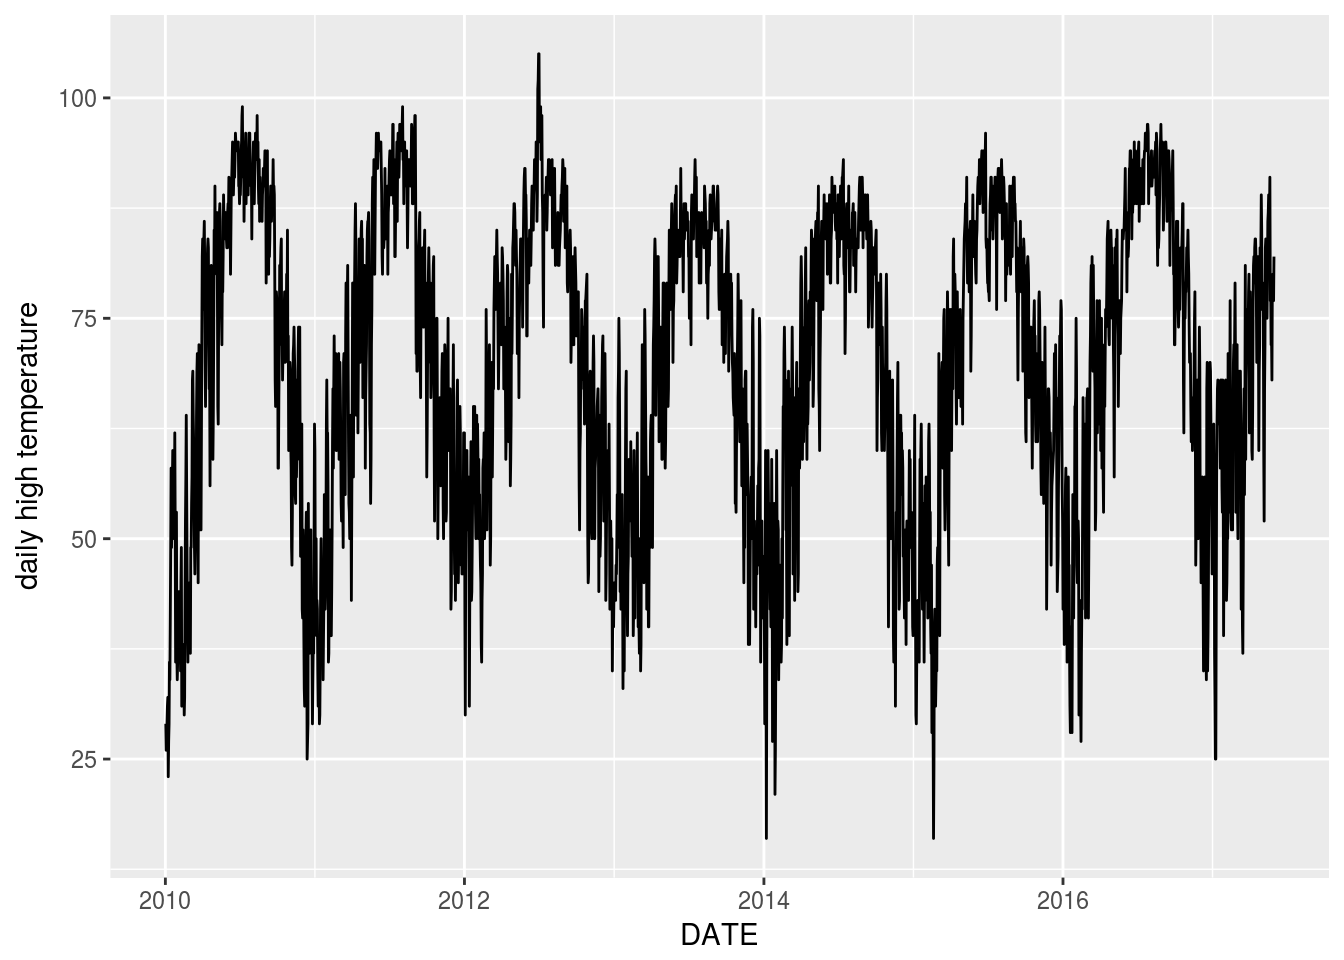
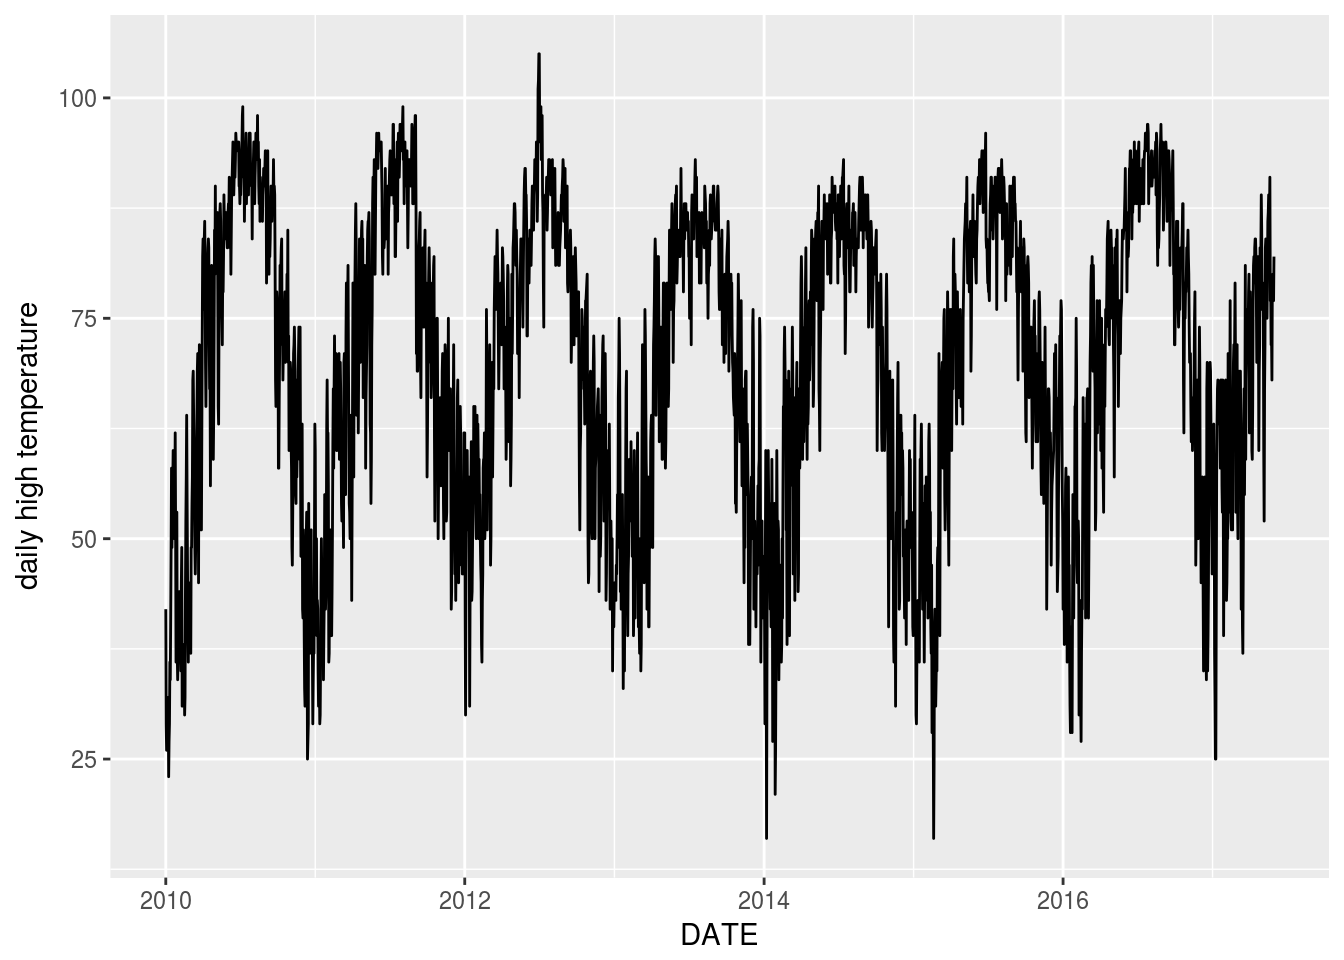
fixed typo

diff --git a/docs/knoxvilleTemp.html b/docs/knoxvilleTemp.html
@@ -208,7 +208,7 @@ $(document).ready(function () {
 <pre class="r"><code>Temperatures &lt;- read_csv(&quot;983224.csv&quot;) %&gt;%
   filter(STATION_NAME == &quot;KNOXVILLE MCGHEE TYSON AIRPORT TN US&quot;) %&gt;%
   select(DATE, TMAX) %&gt;% mutate(DATE = ymd(DATE)) %&gt;%
-  filter(DATE &gt; &quot;2010-1-1&quot;, DATE &lt; &quot;2017-5-31&quot;)</code></pre>
+  filter(DATE &gt;= &quot;2010-1-1&quot;, DATE &lt; &quot;2017-5-31&quot;)</code></pre>
 <p>Next we’ll plot the last decade of temperature data. The yearly cycle is clearly visible.</p>
 <pre class="r"><code>Temperatures %&gt;% ggplot(aes(x=DATE, y=TMAX)) + geom_line() + labs(y = &quot;daily high temperature&quot;)</code></pre>
 <p><img src="knoxvilleTemp_files/figure-html/unnamed-chunk-3-1.png" width="672" /></p>
@@ -241,43 +241,43 @@ Predictions %&gt;% head(10) %&gt;% kable()</code></pre>
 <tbody>
 <tr class="odd">
 <td align="left">2017-05-31</td>
-<td align="right">84.26738</td>
+<td align="right">83.84814</td>
 </tr>
 <tr class="even">
 <td align="left">2017-06-01</td>
-<td align="right">84.76376</td>
+<td align="right">84.14353</td>
 </tr>
 <tr class="odd">
 <td align="left">2017-06-02</td>
-<td align="right">84.95885</td>
+<td align="right">84.56931</td>
 </tr>
 <tr class="even">
 <td align="left">2017-06-03</td>
-<td align="right">85.63916</td>
+<td align="right">85.26205</td>
 </tr>
 <tr class="odd">
 <td align="left">2017-06-04</td>
-<td align="right">86.60600</td>
+<td align="right">86.08152</td>
 </tr>
 <tr class="even">
 <td align="left">2017-06-05</td>
-<td align="right">87.03556</td>
+<td align="right">86.69087</td>
 </tr>
 <tr class="odd">
 <td align="left">2017-06-06</td>
-<td align="right">87.08748</td>
+<td align="right">86.85399</td>
 </tr>
 <tr class="even">
 <td align="left">2017-06-07</td>
-<td align="right">87.18037</td>
+<td align="right">86.63751</td>
 </tr>
 <tr class="odd">
 <td align="left">2017-06-08</td>
-<td align="right">87.03067</td>
+<td align="right">86.37396</td>
 </tr>
 <tr class="even">
 <td align="left">2017-06-09</td>
-<td align="right">86.79794</td>
+<td align="right">86.41873</td>
 </tr>
 </tbody>
 </table>
